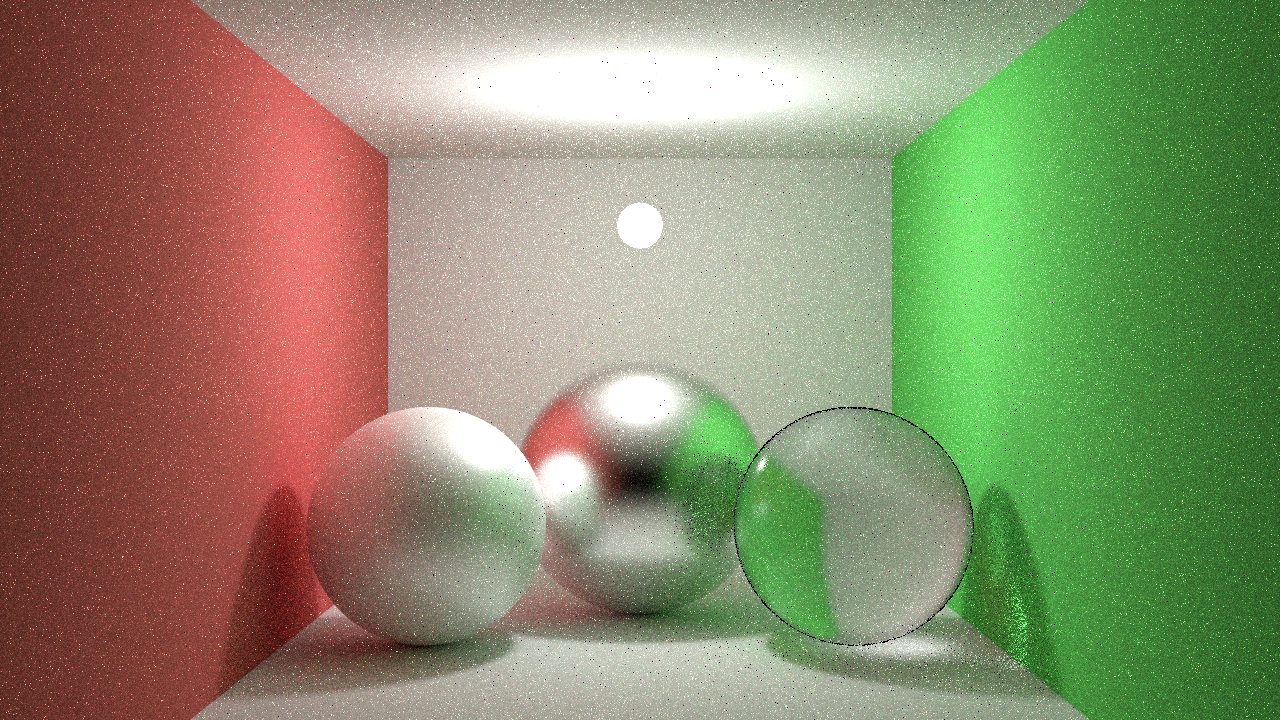
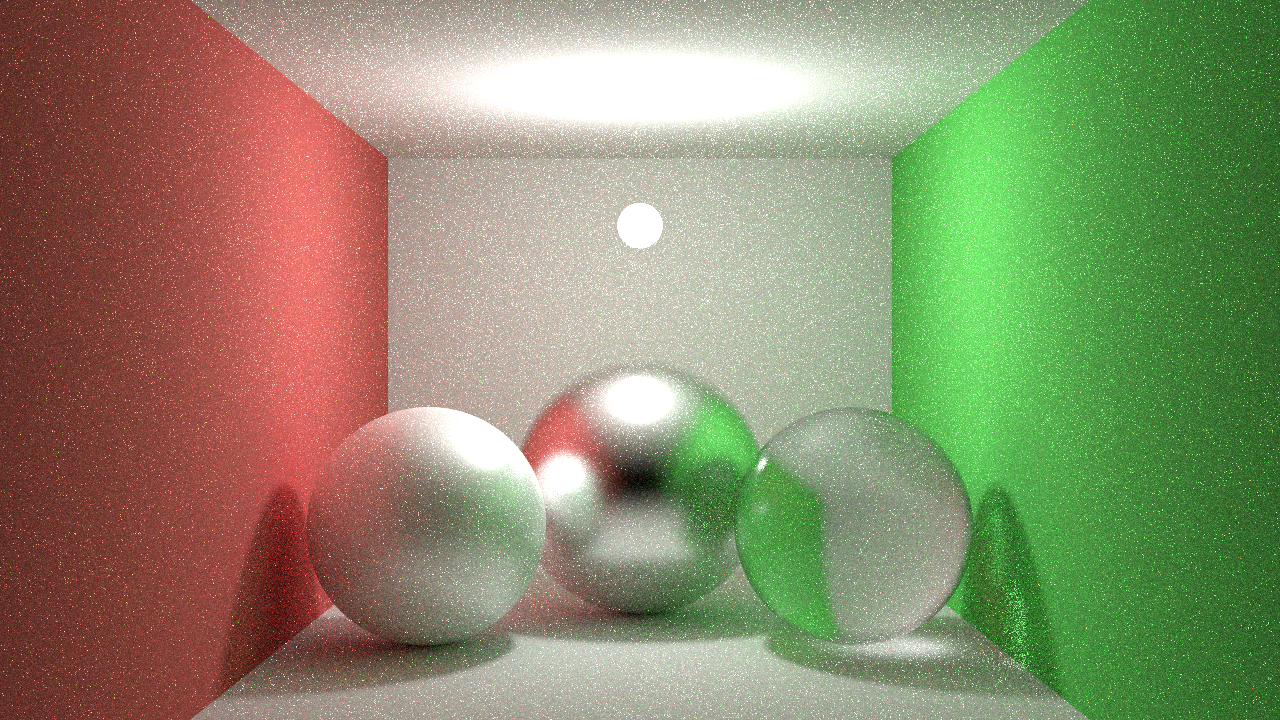
Improved fresnel reflection mult and prob

Changed region(s): [[0.0, 0.0, 1.0, 1.0]]

diff --git a/src/materials.h b/src/materials.h
@@ -312,7 +312,6 @@ public:
             const Vec3f h{ (x * u) + (y * v) + (cosTheta * N) };
             const float vDotH{ sInfo.V().Dot(h) };
 
-            //const float pdfH{ ((alpha + 1.0f) / (2.0f * Pi<float>())) * powf(cosTheta, alpha) };
             //si.prob = pdfH / 4.0f;
 
             const float k{ 1.0f - eta * eta * (1.0f - vDotH * vDotH) };
@@ -323,8 +322,11 @@ public:
                 if (dirDotN * vDotN < 0.0f)
                     return false;
 
+                const float pdfH{ ((alpha + 1.0f) / (8.0f * Pi<float>())) * powf(cosTheta, alpha) };
+                si.prob = (pdfH / (4.0f * vDotH)) * transmissiveProb;
+
                 const float specNorm{ (alpha + 2.0f) / (8.0f * Pi<float>()) };
-                si.mult = ((transmissiveColor * specNorm * powf(N.Dot(h), alpha)) / dirDotN) / transmissiveProb;
+                si.mult = (transmissiveColor * specNorm * powf(N.Dot(h), alpha)) / (4.0f * vDotH);
 
                 return true;
             }
@@ -337,7 +339,17 @@ public:
             const float transmissionFactor{ 1.0f - fresnelReflectionAmount };
 
             if (sInfo.RandomFloat() > transmissionFactor)
+            {
                 dir = h * 2.0f * std::max(0.0f, sInfo.V().Dot(h)) - sInfo.V();
+
+                const float pdfH{ ((alpha + 1.0f) / (8.0f * Pi<float>())) * powf(cosTheta, alpha) };
+                si.prob = (pdfH / (4.0f * vDotH)) * transmissiveProb * fresnelReflectionAmount;
+
+                const float specNorm{ (alpha + 2.0f) / (8.0f * Pi<float>()) };
+                si.mult = (transmissiveColor * specNorm * powf(N.Dot(h), alpha)) / (4.0f * vDotH) * fresnelReflectionAmount;
+
+                return true;
+            }
 
             si.mult = transmissiveColor;
             si.prob = transmissiveProb;

diff --git a/src/main.cpp b/src/main.cpp
@@ -221,9 +221,8 @@ Color tracePath(Ray ray)
                     DirSampler::Info materialInfo;
                     material->GetSampleInfo(sInfo, nextEventShadowDir, materialInfo);
                     float weight{ 1.0f };
-                    //if (materialInfo.prob > 0.0f)
-                    //    weight = (nextEventInfo.prob * nextEventInfo.prob) / (nextEventInfo.prob * nextEventInfo.prob + materialInfo.prob * materialInfo.prob);
-                    //std::cout << weight << '\n';
+                    if (materialInfo.prob > 0.0f)
+                        weight = (nextEventInfo.prob * nextEventInfo.prob) / (nextEventInfo.prob * nextEventInfo.prob + materialInfo.prob * materialInfo.prob);
 
                     // Regular shading
                     const Color diffuse{ material->Diffuse().GetValue() };
